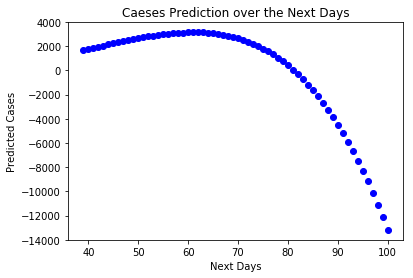
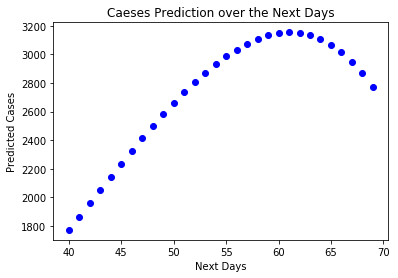
minor fixes

diff --git a/6-4-2020-report/main.md b/6-4-2020-report/main.md
@@ -260,8 +260,8 @@ plt.show()
 
 
 ```python
-days = np.arange(39, 101)
-
+current_day = len(country_df)
+days = np.arange(current_day, 70)
 pred = []
 next_days = []
 
@@ -345,7 +345,7 @@ plt.show()
 
 
 ```python
-days = np.arange(39,101)
+days = np.arange(current_day,101)
 pred = []
 next_days = []
 
